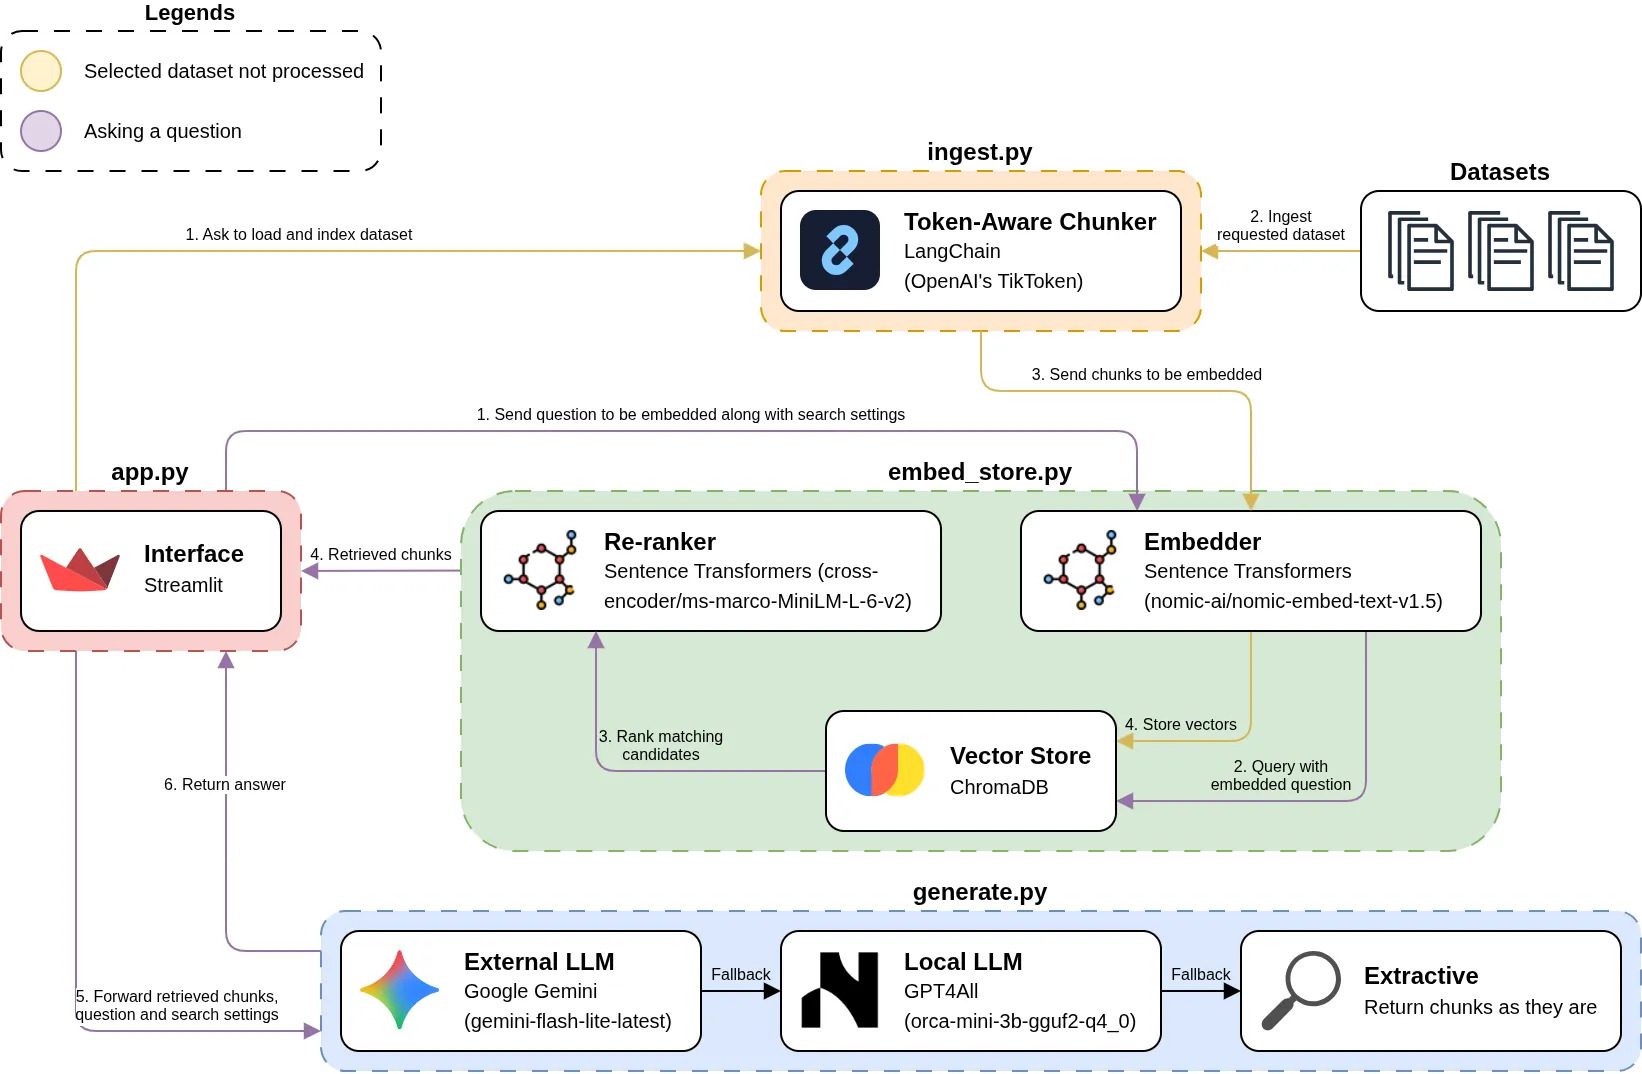
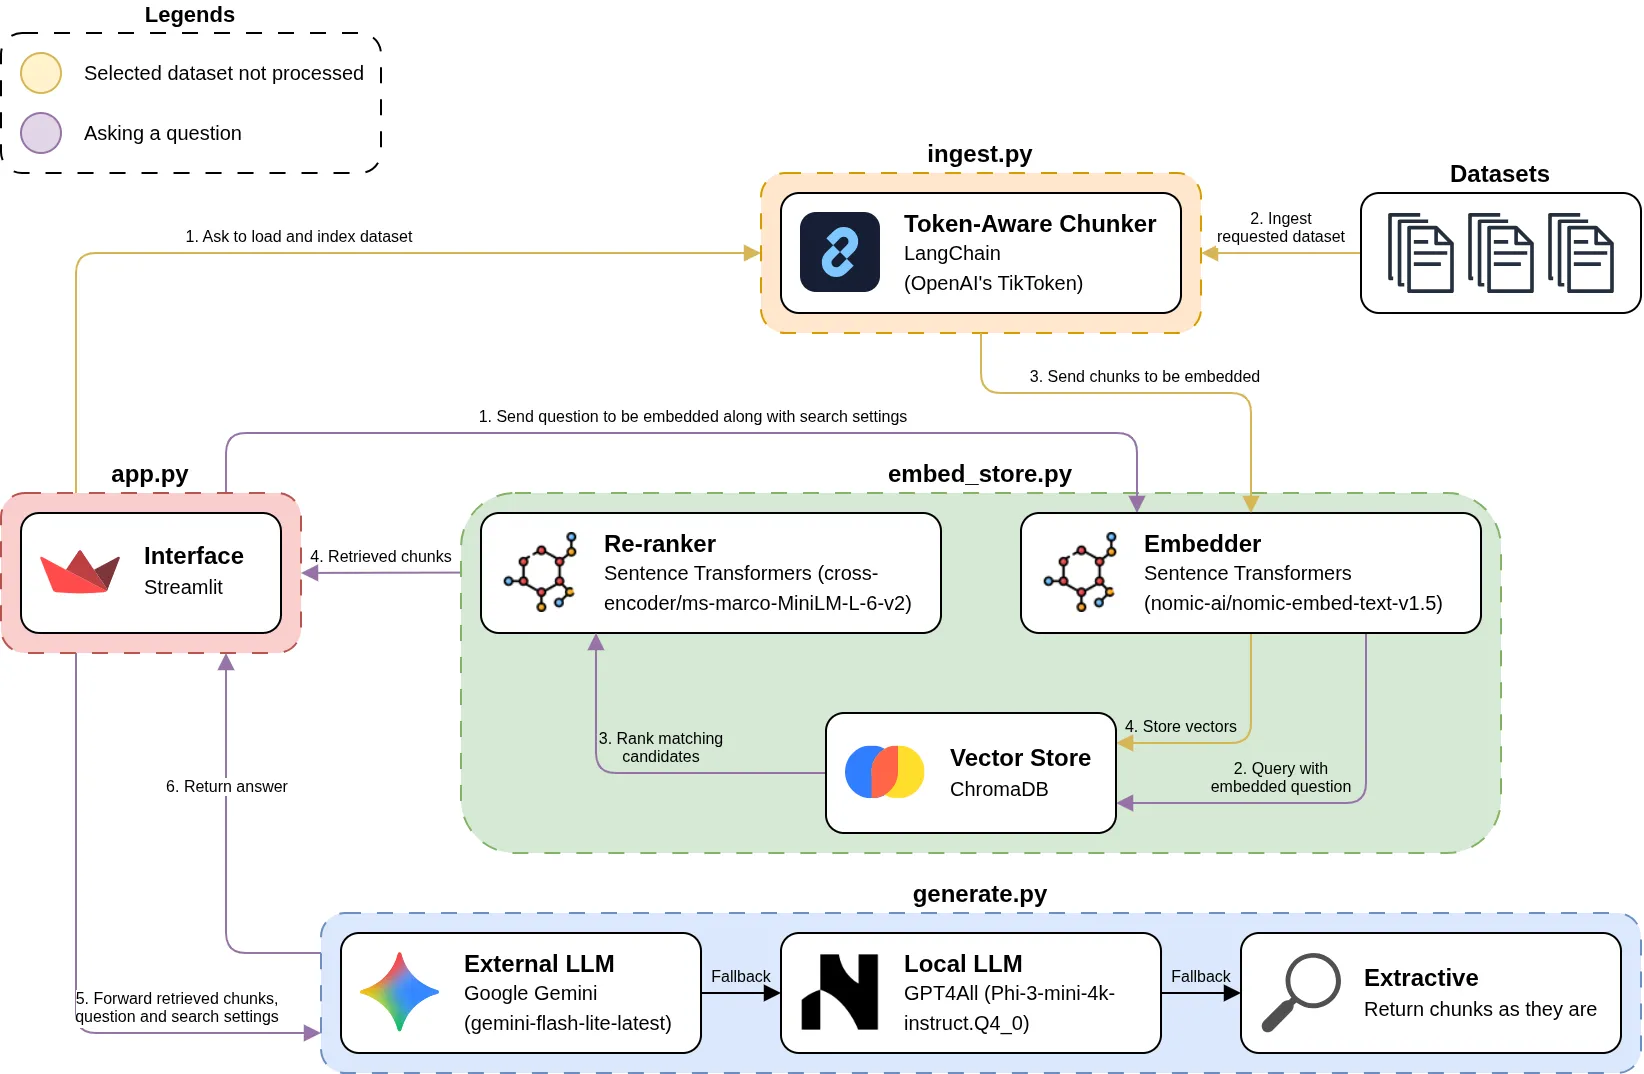
refactor: switch local LLM model to Phi Mini

diff --git a/rag/generate.py b/rag/generate.py
@@ -25,7 +25,7 @@ def llm_answer(query: str, retrieved: List[Tuple[Chunk, float]], provider: str, 
 
     online = os.getenv("ONLINE")
     local_llm_chunk_limit = os.getenv("LOCAL_LLM_CHUNK_LIMIT")
-    local_model_name = "orca-mini-3b-gguf2-q4_0.gguf"
+    local_model_name = "Phi-3-mini-4k-instruct.Q4_0.gguf"
 
     if provider != "local":
         error = False
@@ -117,7 +117,7 @@ def llm_answer(query: str, retrieved: List[Tuple[Chunk, float]], provider: str, 
         )
         with model.chat_session(system_prompt=prompt):
             response += model.generate(prompt=query, max_tokens=256)
-        return response, {"mode": "LLM", "provider": "Local (Orca Mini)", "provider_raw": "local"}
+        return response, {"mode": "LLM", "provider": "Local (Phi Mini)", "provider_raw": "local"}
 
     fallback_ans, fallback_meta = extractive_answer(query, retrieved, dataset)
     return (

diff --git a/app.py b/app.py
@@ -157,7 +157,7 @@ with sb:
     )
     provider_display = {
         "google": "Google (Gemini Flash Lite)",
-        "local": "Local (Orca Mini) [Experimental]",
+        "local": "Local (Phi Mini) [Experimental]",
     }
     provider = st.selectbox(
         label="LLM Provider",

diff --git a/README.md b/README.md
@@ -19,7 +19,7 @@ This project made the following changes:
 - Use CrossEncoder with model `cross-encoder/ms-marco-MiniLM-L-6-v2` as the re-ranker
 - Implemented bi-encoding + cross-encoding chunk retrieval
 - Store vectors in an actual datastore using `ChromaDB` and use it to search for chunks against query
-- Added LLM responses with `gemini-flash-lite` as the default with experimental local fallback using `GPT4All` (model: `orca-mini-3b-gguf2-q4_0`)
+- Added LLM responses with `gemini-flash-lite` as the default with experimental local fallback using `GPT4All` (model: `Phi-3-mini-4k-instruct.Q4_0`)
 - Graceful error handling such as falling back from LLM to basic extractive response when there is no internet or no API key was set
 - Added dynamic dataset selection to simulate changing the course. On change, it will index the new dataset and switch to it. If the dataset is already built, it will simply switch to it, improving performance
 - Added score threshold option when searching